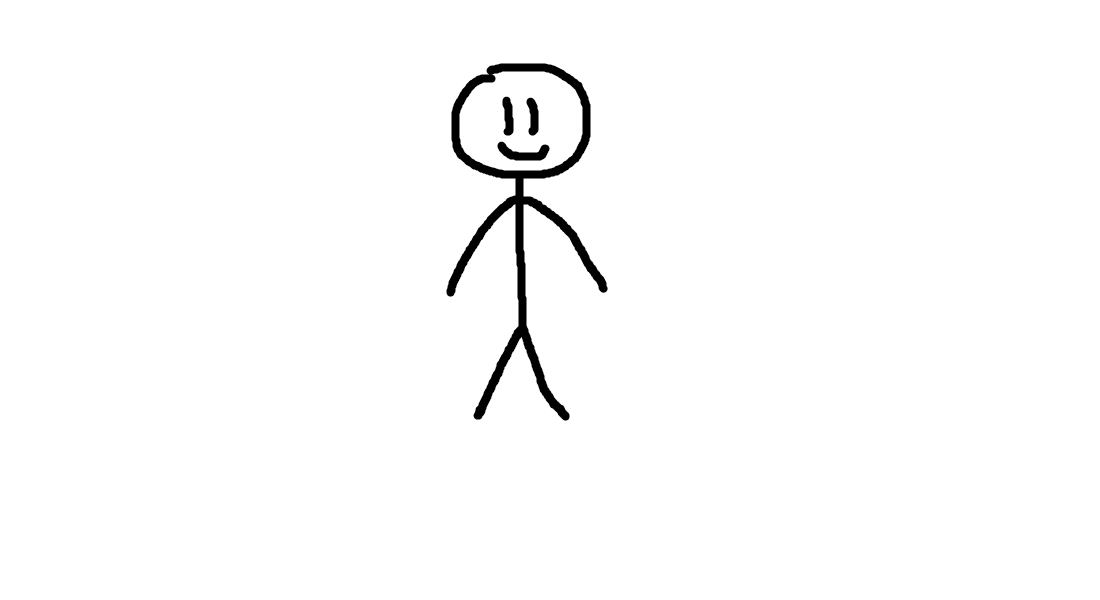
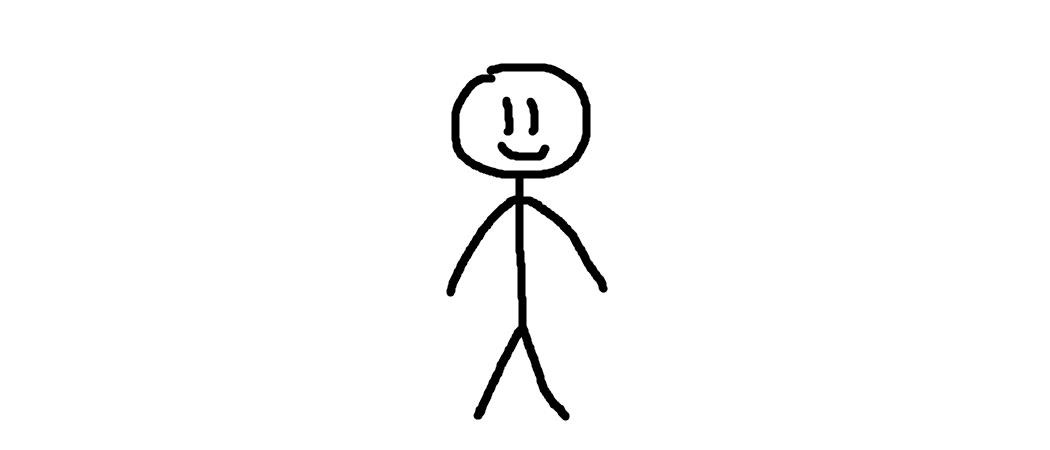
1

Changed region(s): [[0.3962, 0.0933, 0.579, 0.9333]]

diff --git a/bot.py b/bot.py
@@ -3124,9 +3124,9 @@ CLOTHING_SHOP_ITEMS = [
         "desc": "чёрная худи с надписью «ПИЗДЕЦ»",
         "image": "images/shop/foot.png",
         "slot": "top",
-        "scale": 120,
-        "x": 550,
-        "y": 300,
+        "scale": 350,
+        "x": 500,
+        "y": 200,
     },
 ]
 
